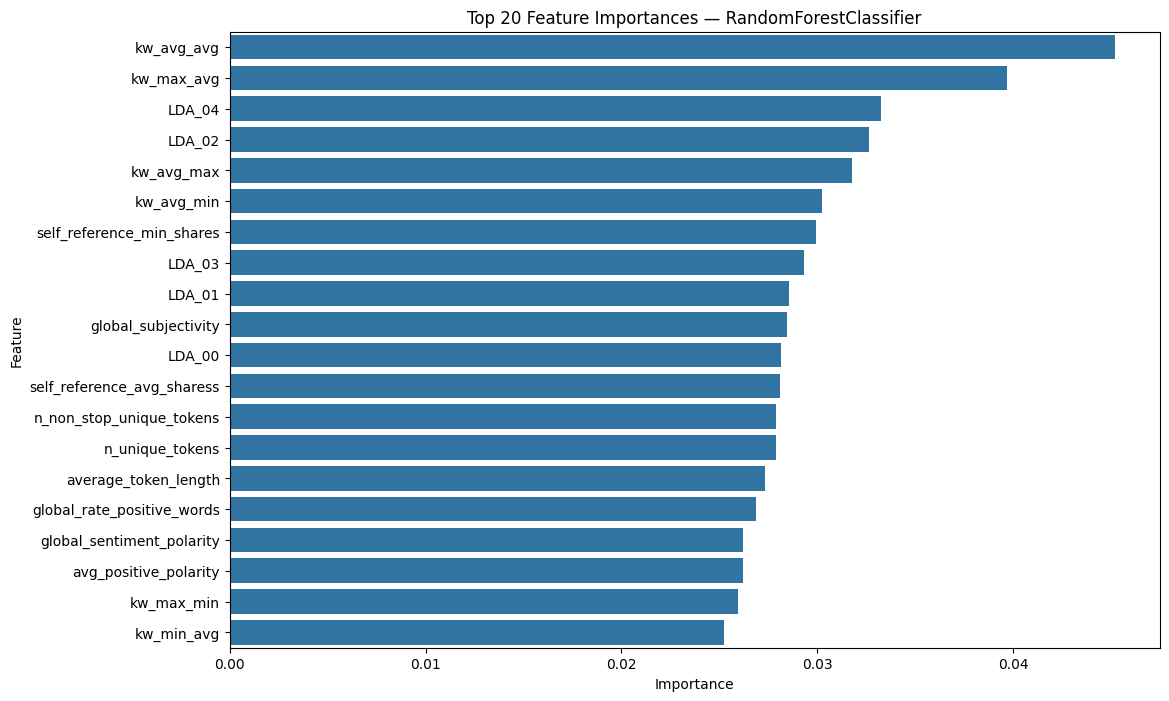
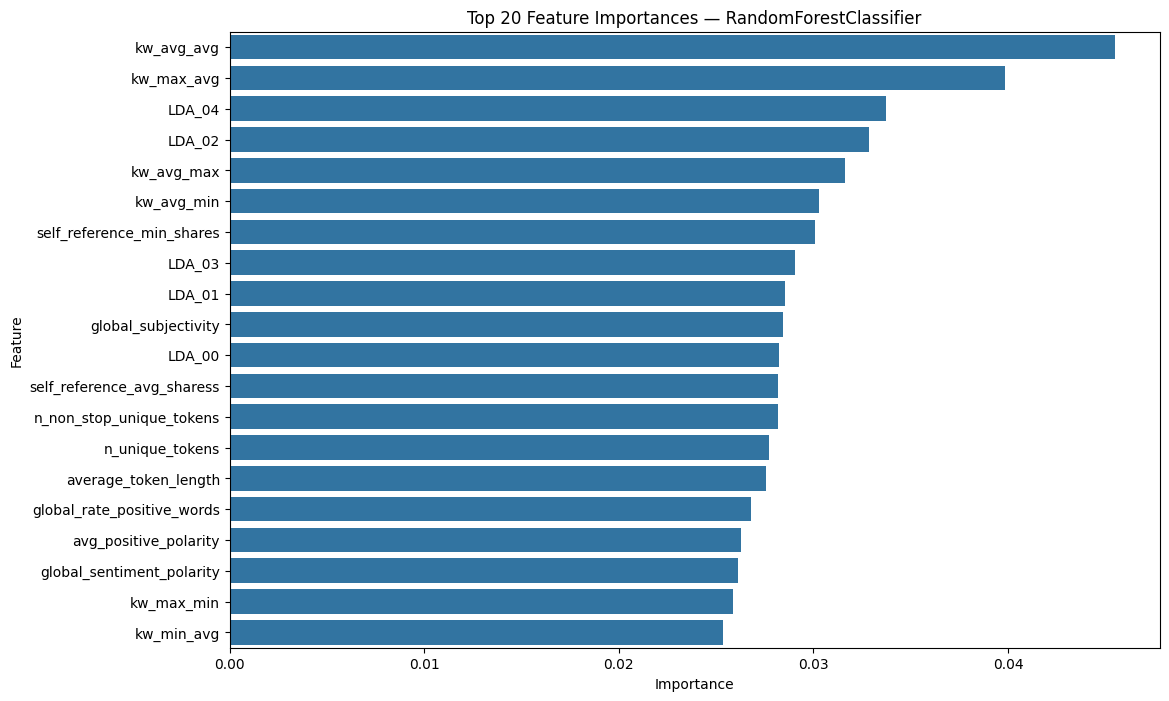
chore: finalize config refactor, update params.yaml, tests and artifacts

diff --git a/mlops_equipo_63/Optuna_Study.py b/mlops_equipo_63/Optuna_Study.py
@@ -26,12 +26,12 @@ def suggest_param(trial: optuna.Trial, name: str, spec: Dict[str, Any]) -> Any:
     t = spec.get("type")
     
     if t == "int":
-        return trial.suggest_int(name, spec["low"], spec["high"])
+        return trial.suggest_int(name, int(spec["low"]), int(spec["high"]))
     elif t == "float":
         if spec.get("log"):
-            return trial.suggest_float(name, spec["low"], spec["high"], log=True)
+            return trial.suggest_float(name, float(spec["low"]), float(spec["high"]), log=True)
         else:
-            return trial.suggest_float(name, spec["low"], spec["high"])
+            return trial.suggest_float(name, float(spec["low"]), float(spec["high"]))
     elif t == "categorical":
         return trial.suggest_categorical(name, spec["choices"])
     else:
@@ -219,7 +219,7 @@ def run_optuna_study(
         extras = " ".join(
             f"{m}: {trial.user_attrs.get(m, float('nan')):.4f}" for m in extra_metrics
         )
-        print(f"Trial {trial.number} → {metric_name.upper()}: {trial.value:.4f} | {extras}")
+        print(f"Trial {trial.number} -> {metric_name.upper()}: {trial.value:.4f} | {extras}")
 
     callbacks.append(print_metrics_callback)
 
@@ -348,7 +348,7 @@ def run_optuna_study(
         extras = " ".join(
             f"{m}: {trial.user_attrs.get(m, float('nan')):.4f}" for m in extra_metrics
         )
-        print(f"Trial {trial.number} → {metric_name.upper()}: {trial.value:.4f} | {extras}")
+        print(f"Trial {trial.number} -> {metric_name.upper()}: {trial.value:.4f} | {extras}")
 
     callbacks.append(print_metrics_callback)
 

diff --git a/mlops_equipo_63/Configuration.py b/mlops_equipo_63/Configuration.py
@@ -21,37 +21,37 @@ def _load_params(path: str = "params.yaml") -> Dict[str, Any]:
 @dataclass
 class Config:
     """Configuration class that reads from params.yaml and env vars (with overrides)."""
-    
+
     # Data
-    data_path: str
-    processed_dir: str
-    
+    data_path: str = "data/raw/online_news_modified.csv"
+    processed_dir: str = "data/processed"
+
     # Train
-    test_size: float
-    random_state: int
-    n_trials: int
-    cv_folds: int
-    n_jobs_cv: int
-    
+    test_size: float = 0.2
+    random_state: int = 42
+    n_trials: int = 20
+    cv_folds: int = 5
+    n_jobs_cv: int = -1
+
     # Model
-    target_col: str
-    pos_label_threshold: int
-    study_name: str
-    
+    target_col: str = "shares"
+    pos_label_threshold: int = 1400
+    study_name: str = "optuna_study"
+
     # Track
-    mlflow_experiment: str
-    mlflow_tracking_uri: str
-    
+    mlflow_experiment: str = "mlops_experiment"
+    mlflow_tracking_uri: str = "mlruns"
+
     # Optuna (optional)
     optuna_random_state: Optional[int] = None
-    optuna_n_jobs: Optional[int] = None
+    optuna_n_jobs: Optional[int] = 1
     enable_models: Optional[list] = None
     search_space: Optional[Dict[str, Any]] = None
-    
+
     # API
     api_model_path: str = "models/final_model.pkl"
     api_feature_names_path: str = "models/feature_names.json"
-    
+
     # Feature extraction
     feature_extraction_fill_random: bool = False
 

diff --git a/mlops_equipo_63/Retrain_and_Evaluate.py b/mlops_equipo_63/Retrain_and_Evaluate.py
@@ -263,5 +263,5 @@ def retrain_and_evaluate_best(
         except Exception:
             pass
 
-    print("\n✅ Modelo final guardado en 'models/final_model.pkl' y métricas registradas en MLflow.")
+    print("\nModelo final guardado en 'models/final_model.pkl' y métricas registradas en MLflow.")
     return final_pipeline, metrics, importance_df
